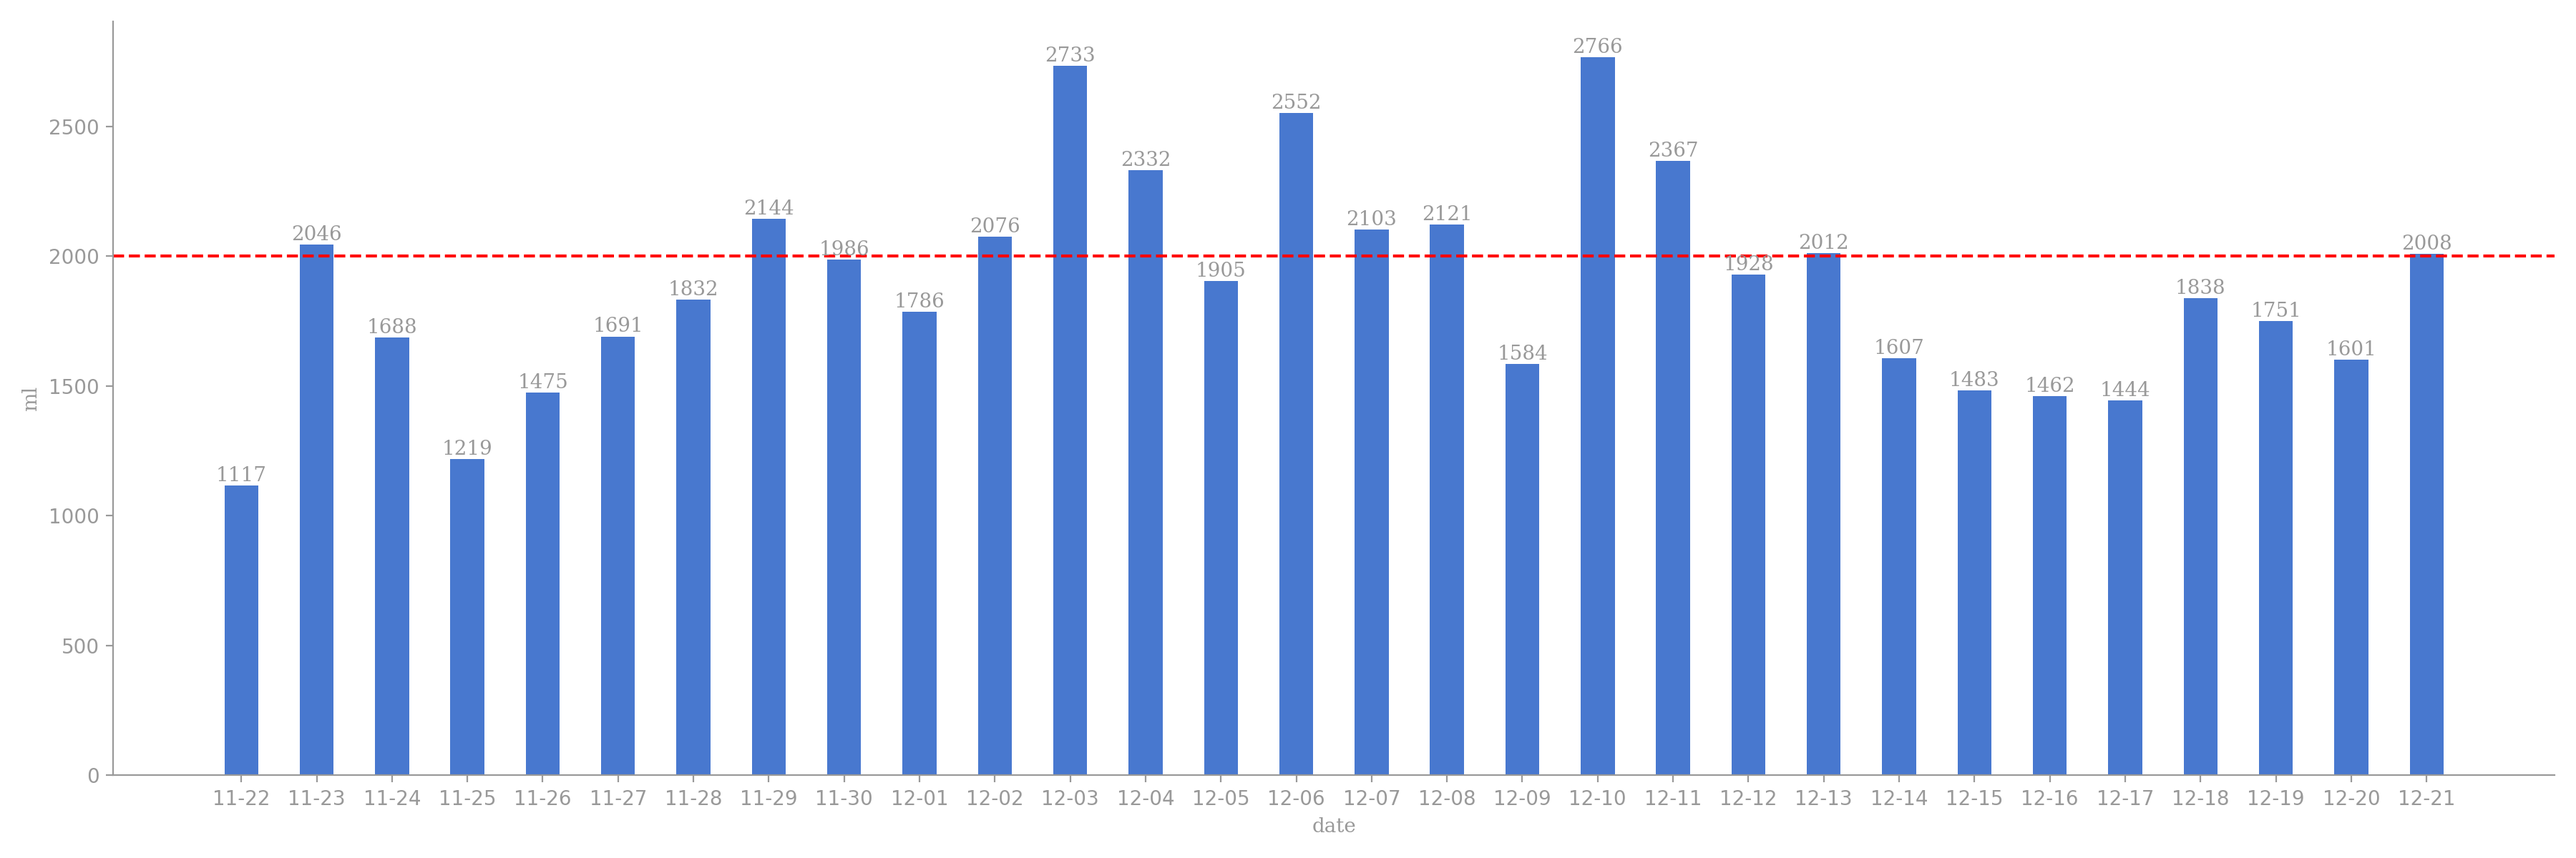
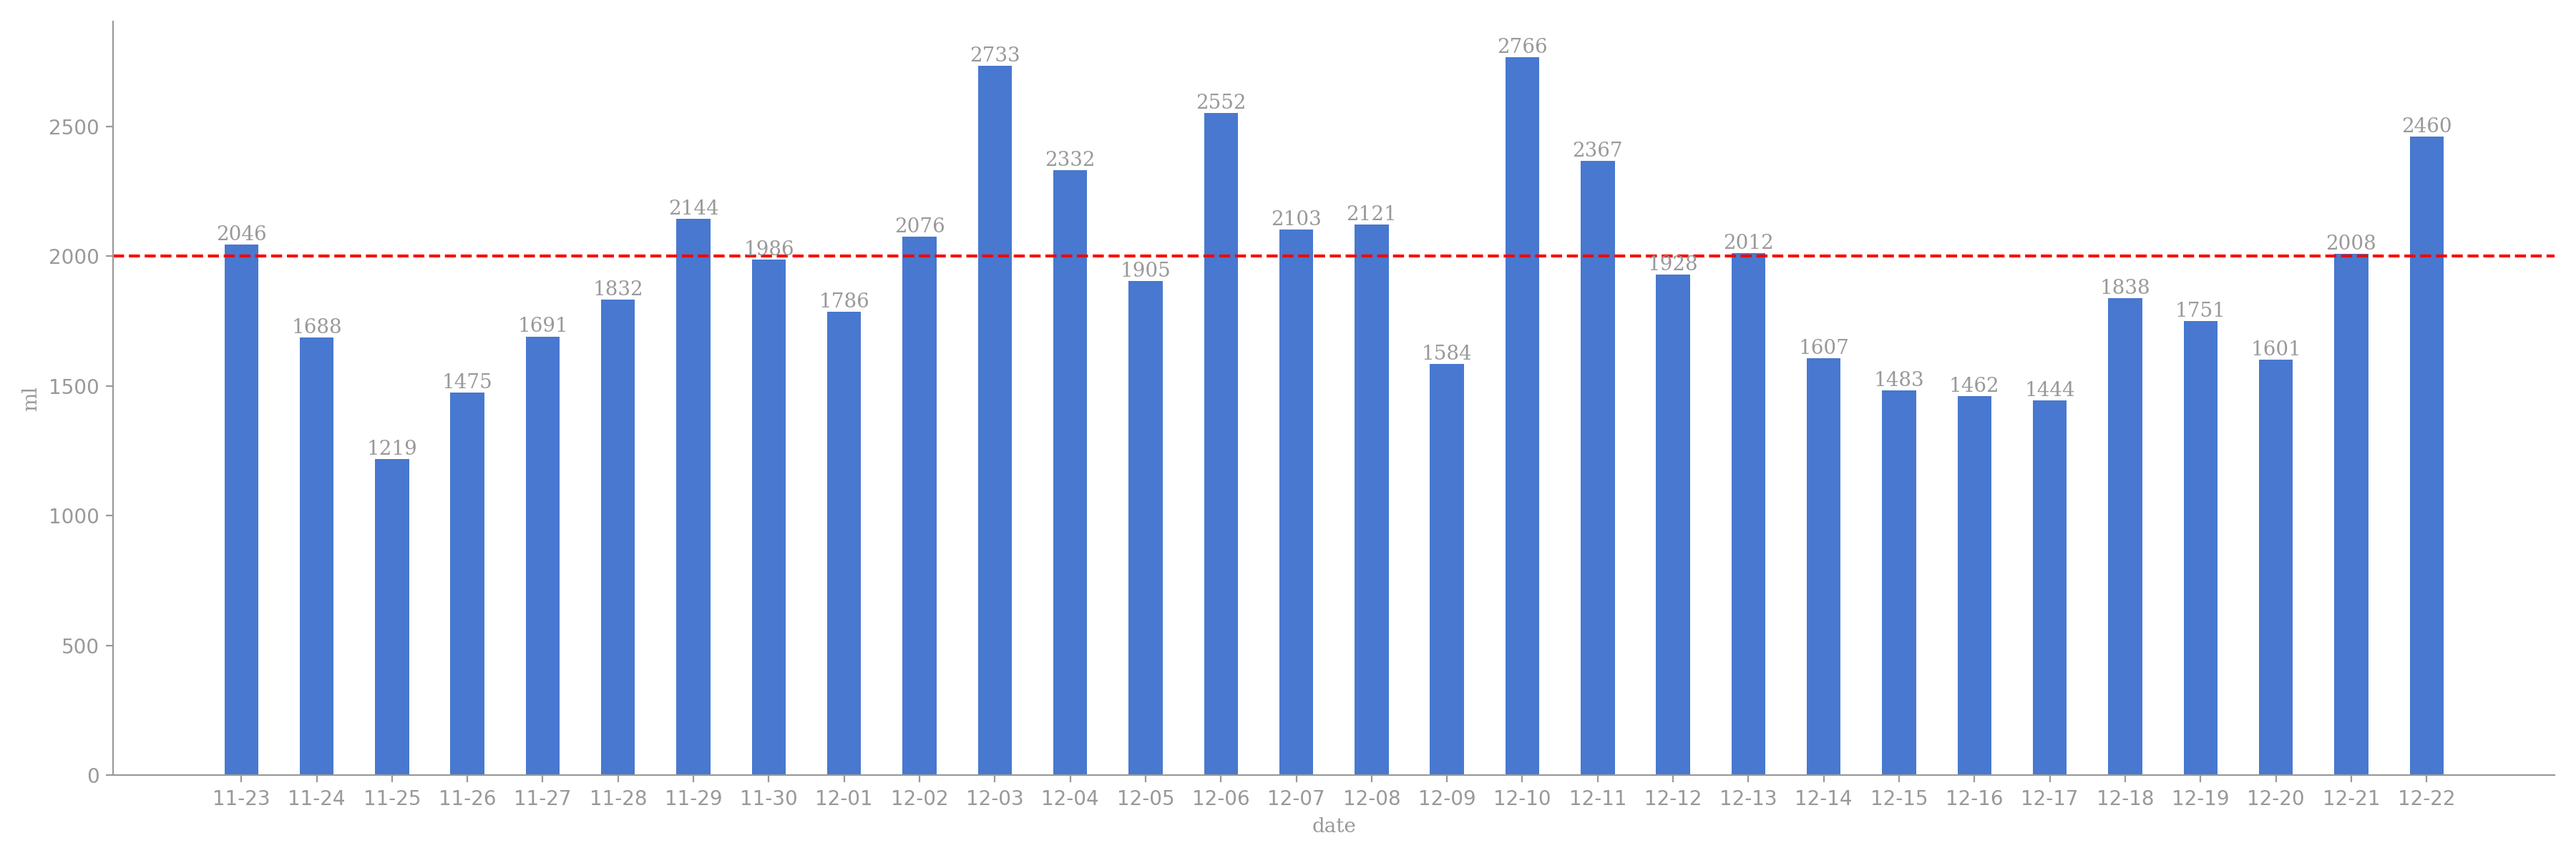
crontab auto git

Changed region(s): [[0.0622, 0.0308, 0.9644, 0.555]]

diff --git a/README.md b/README.md
@@ -1,17 +1,3 @@
-# 今日饮水数据
-
-<div align=center>
-<img src="today.png" style="zoom: 100%;" />
-
-| 今日总饮水量 | 每小时平均饮水量 |
-| :----: | :----: |
-| 2460 | 189 |
-</div>
-
-| 日期 | 01:42:29 | 02:56:31 | 04:31:14 | 05:59:15 | 07:44:42 | 08:15:34 | 08:52:59 | 14:01:55 | 16:57:10 | 17:54:30 | 19:08:02 | 20:31:42 | 21:10:27 | 22:05:00 | 22:34:45 |
-| :----: | :----: | :----: | :----: | :----: | :----: | :----: | :----: | :----: | :----: | :----: | :----: | :----: | :----: | :----: | :----: |
-| 2025-12-22 | 400 | 400 | 400 | 200 | 167 | 63 | 55 | 102 | 101 | 77 | 182 | 88 | 55 | 88 | 82 |
-
 # 近30日饮水数据
 
 <div align=center>
@@ -19,8 +5,12 @@
 
 | 总饮水量 | 日均饮水量 |
 | :----: | :----: |
-| 56657 | 1888 |
+| 58000 | 1933 |
 </div>
+
+| 日期 | all | 01:42:29 | 02:56:31 | 04:31:14 | 05:59:15 | 07:44:42 | 08:15:34 | 08:52:59 | 14:01:55 | 16:57:10 | 17:54:30 | 19:08:02 | 20:31:42 | 21:10:27 | 22:05:00 | 22:34:45 |
+| :----: | :----: | :----: | :----: | :----: | :----: | :----: | :----: | :----: | :----: | :----: | :----: | :----: | :----: | :----: | :----: | :----: |
+| 2025-12-22 | 2460 | 400 | 400 | 400 | 200 | 167 | 63 | 55 | 102 | 101 | 77 | 182 | 88 | 55 | 88 | 82 |
 
 | 日期 | all | 02:35:02 | 03:11:48 | 03:13:05 | 04:29:07 | 05:44:42 | 06:52:45 | 07:38:13 | 17:17:19 | 18:07:31 | 18:43:18 | 19:39:31 | 20:30:47 | 20:42:04 | 21:03:25 | 22:38:00 |
 | :----: | :----: | :----: | :----: | :----: | :----: | :----: | :----: | :----: | :----: | :----: | :----: | :----: | :----: | :----: | :----: | :----: |
@@ -141,8 +131,4 @@
 | 日期 | all | 02:27:41 | 03:34:55 | 04:02:05 | 05:47:48 | 07:57:06 | 17:11:29 | 18:40:20 | 19:20:16 | 22:31:03 | 23:38:49 |
 | :----: | :----: | :----: | :----: | :----: | :----: | :----: | :----: | :----: | :----: | :----: | :----: |
 | 2025-11-22 | 1117 | 91 | 72 | 195 | 250 | 36 | 104 | 96 | 88 | 103 | 82 |
-
-| 日期 | all | 00:10:50 | 01:53:50 | 02:09:07 | 03:04:12 | 05:48:20 | 07:16:26 | 09:59:14 | 18:14:45 | 19:14:42 | 20:06:20 | 20:31:55 | 20:44:59 | 21:55:31 | 22:46:33 | 23:35:54 |
-| :----: | :----: | :----: | :----: | :----: | :----: | :----: | :----: | :----: | :----: | :----: | :----: | :----: | :----: | :----: | :----: | :----: |
-| 2025-11-21 | 2120 | 66 | 88 | 132 | 102 | 250 | 400 | 82 | 99 | 300 | 96 | 89 | 102 | 127 | 103 | 84 |
 
